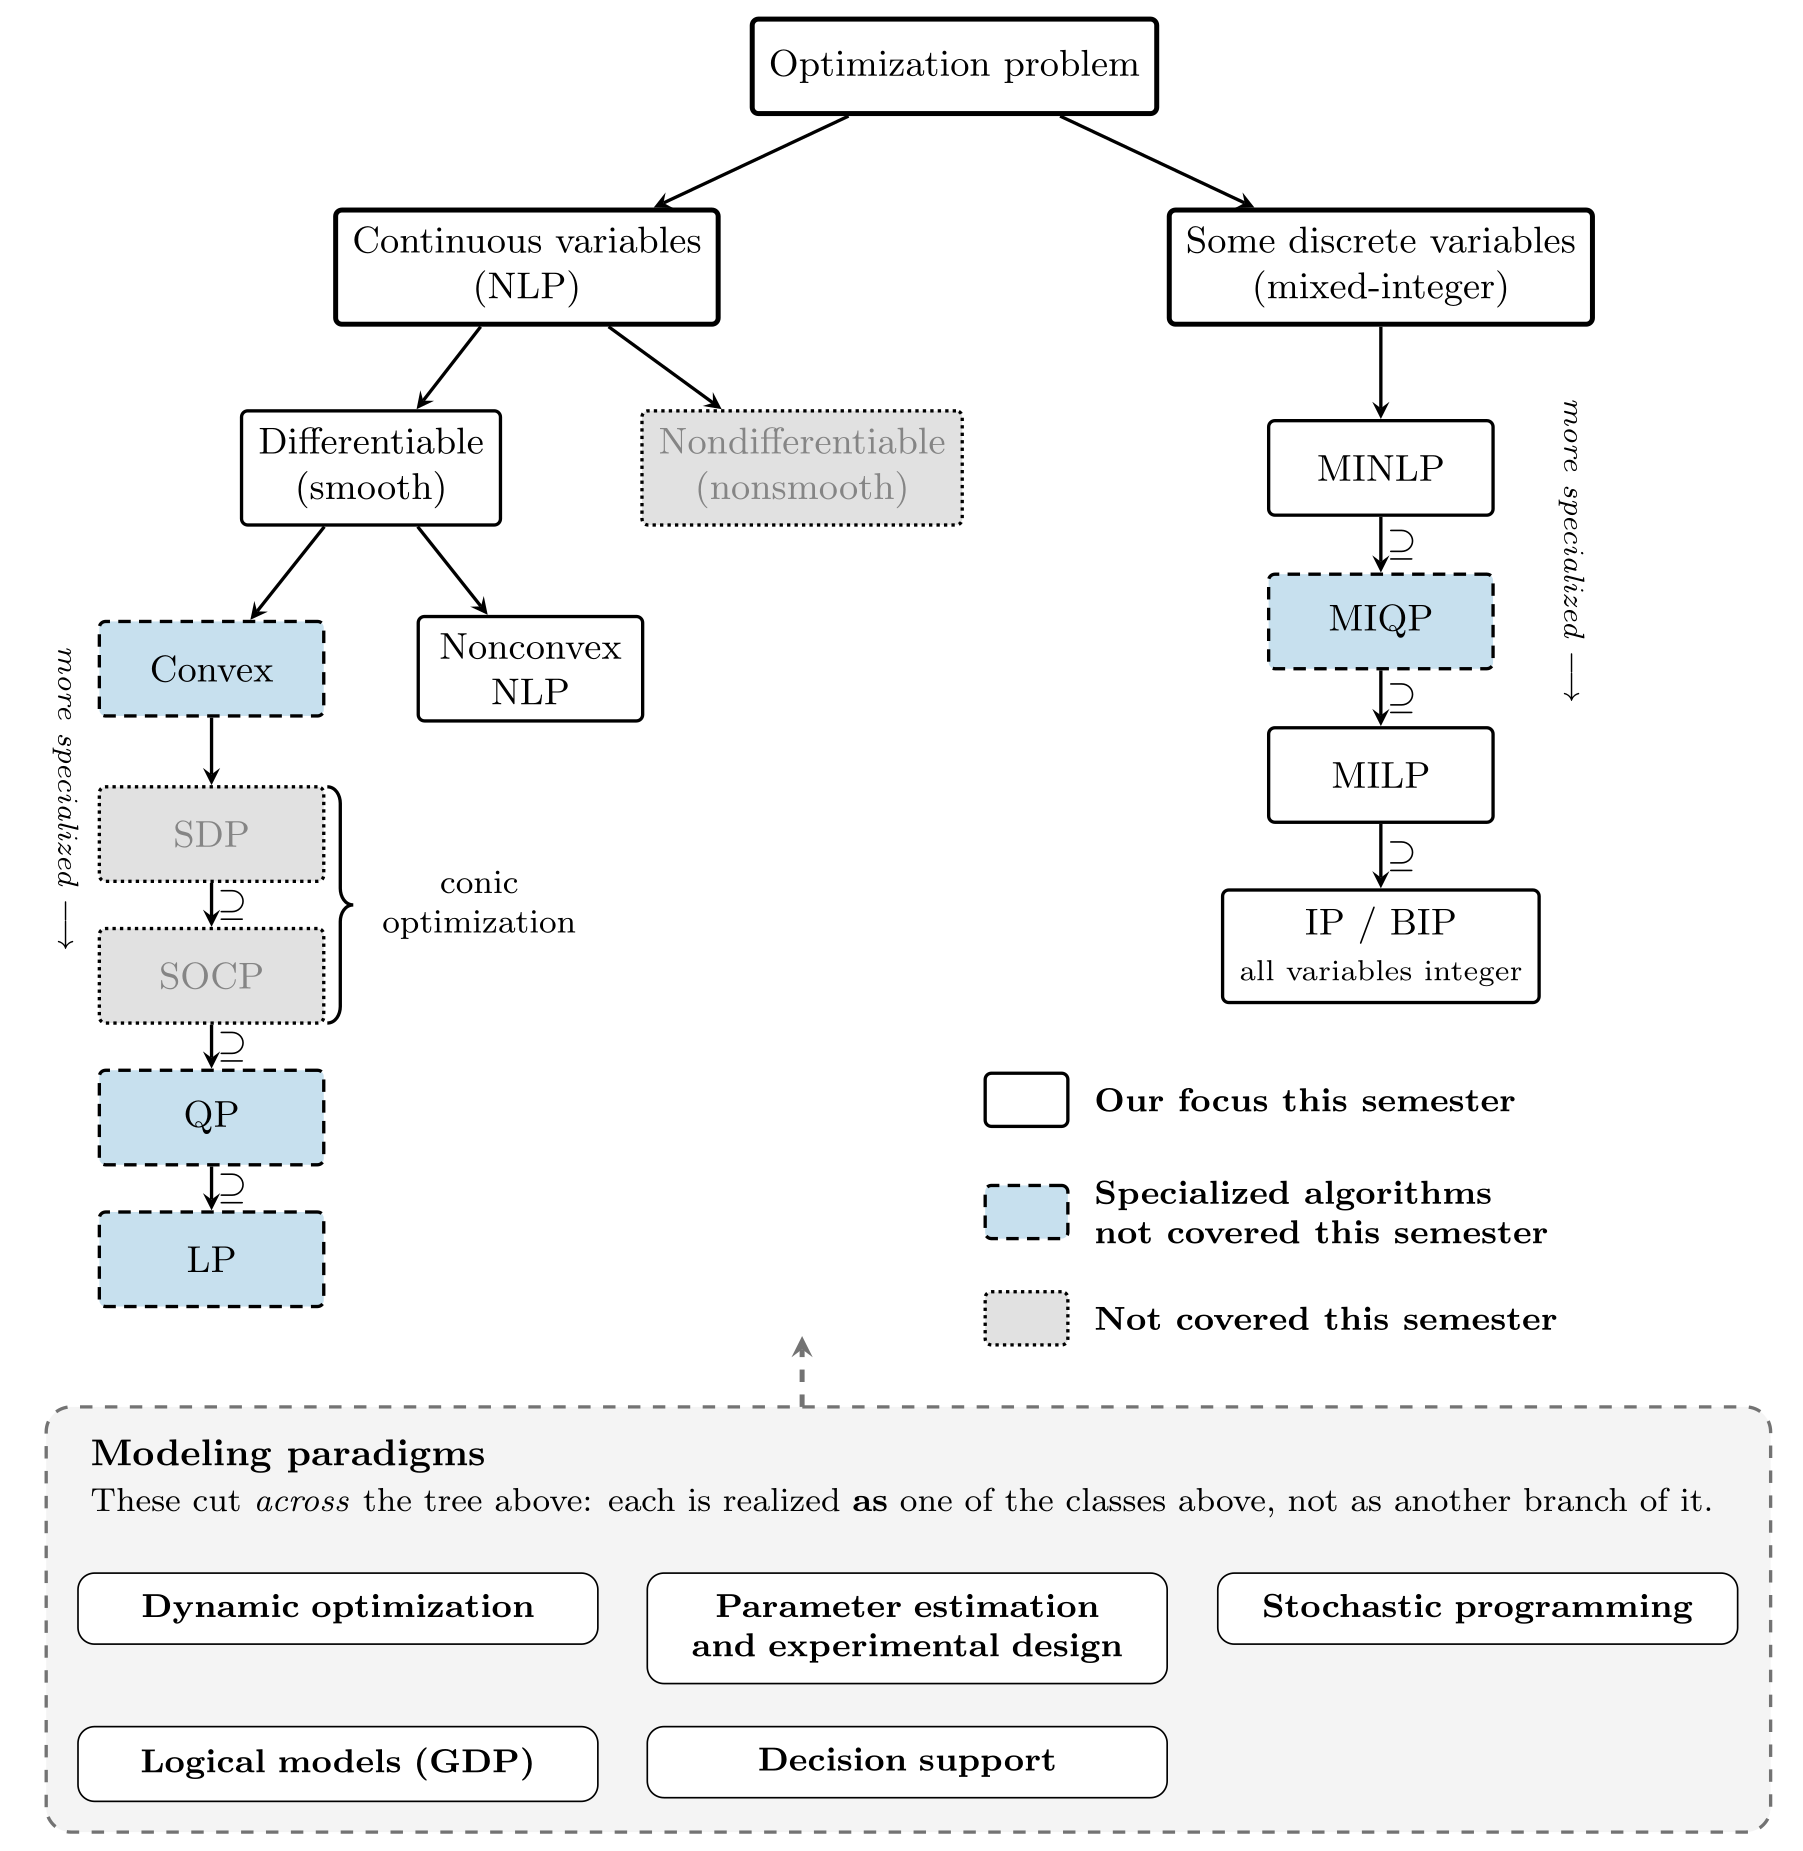
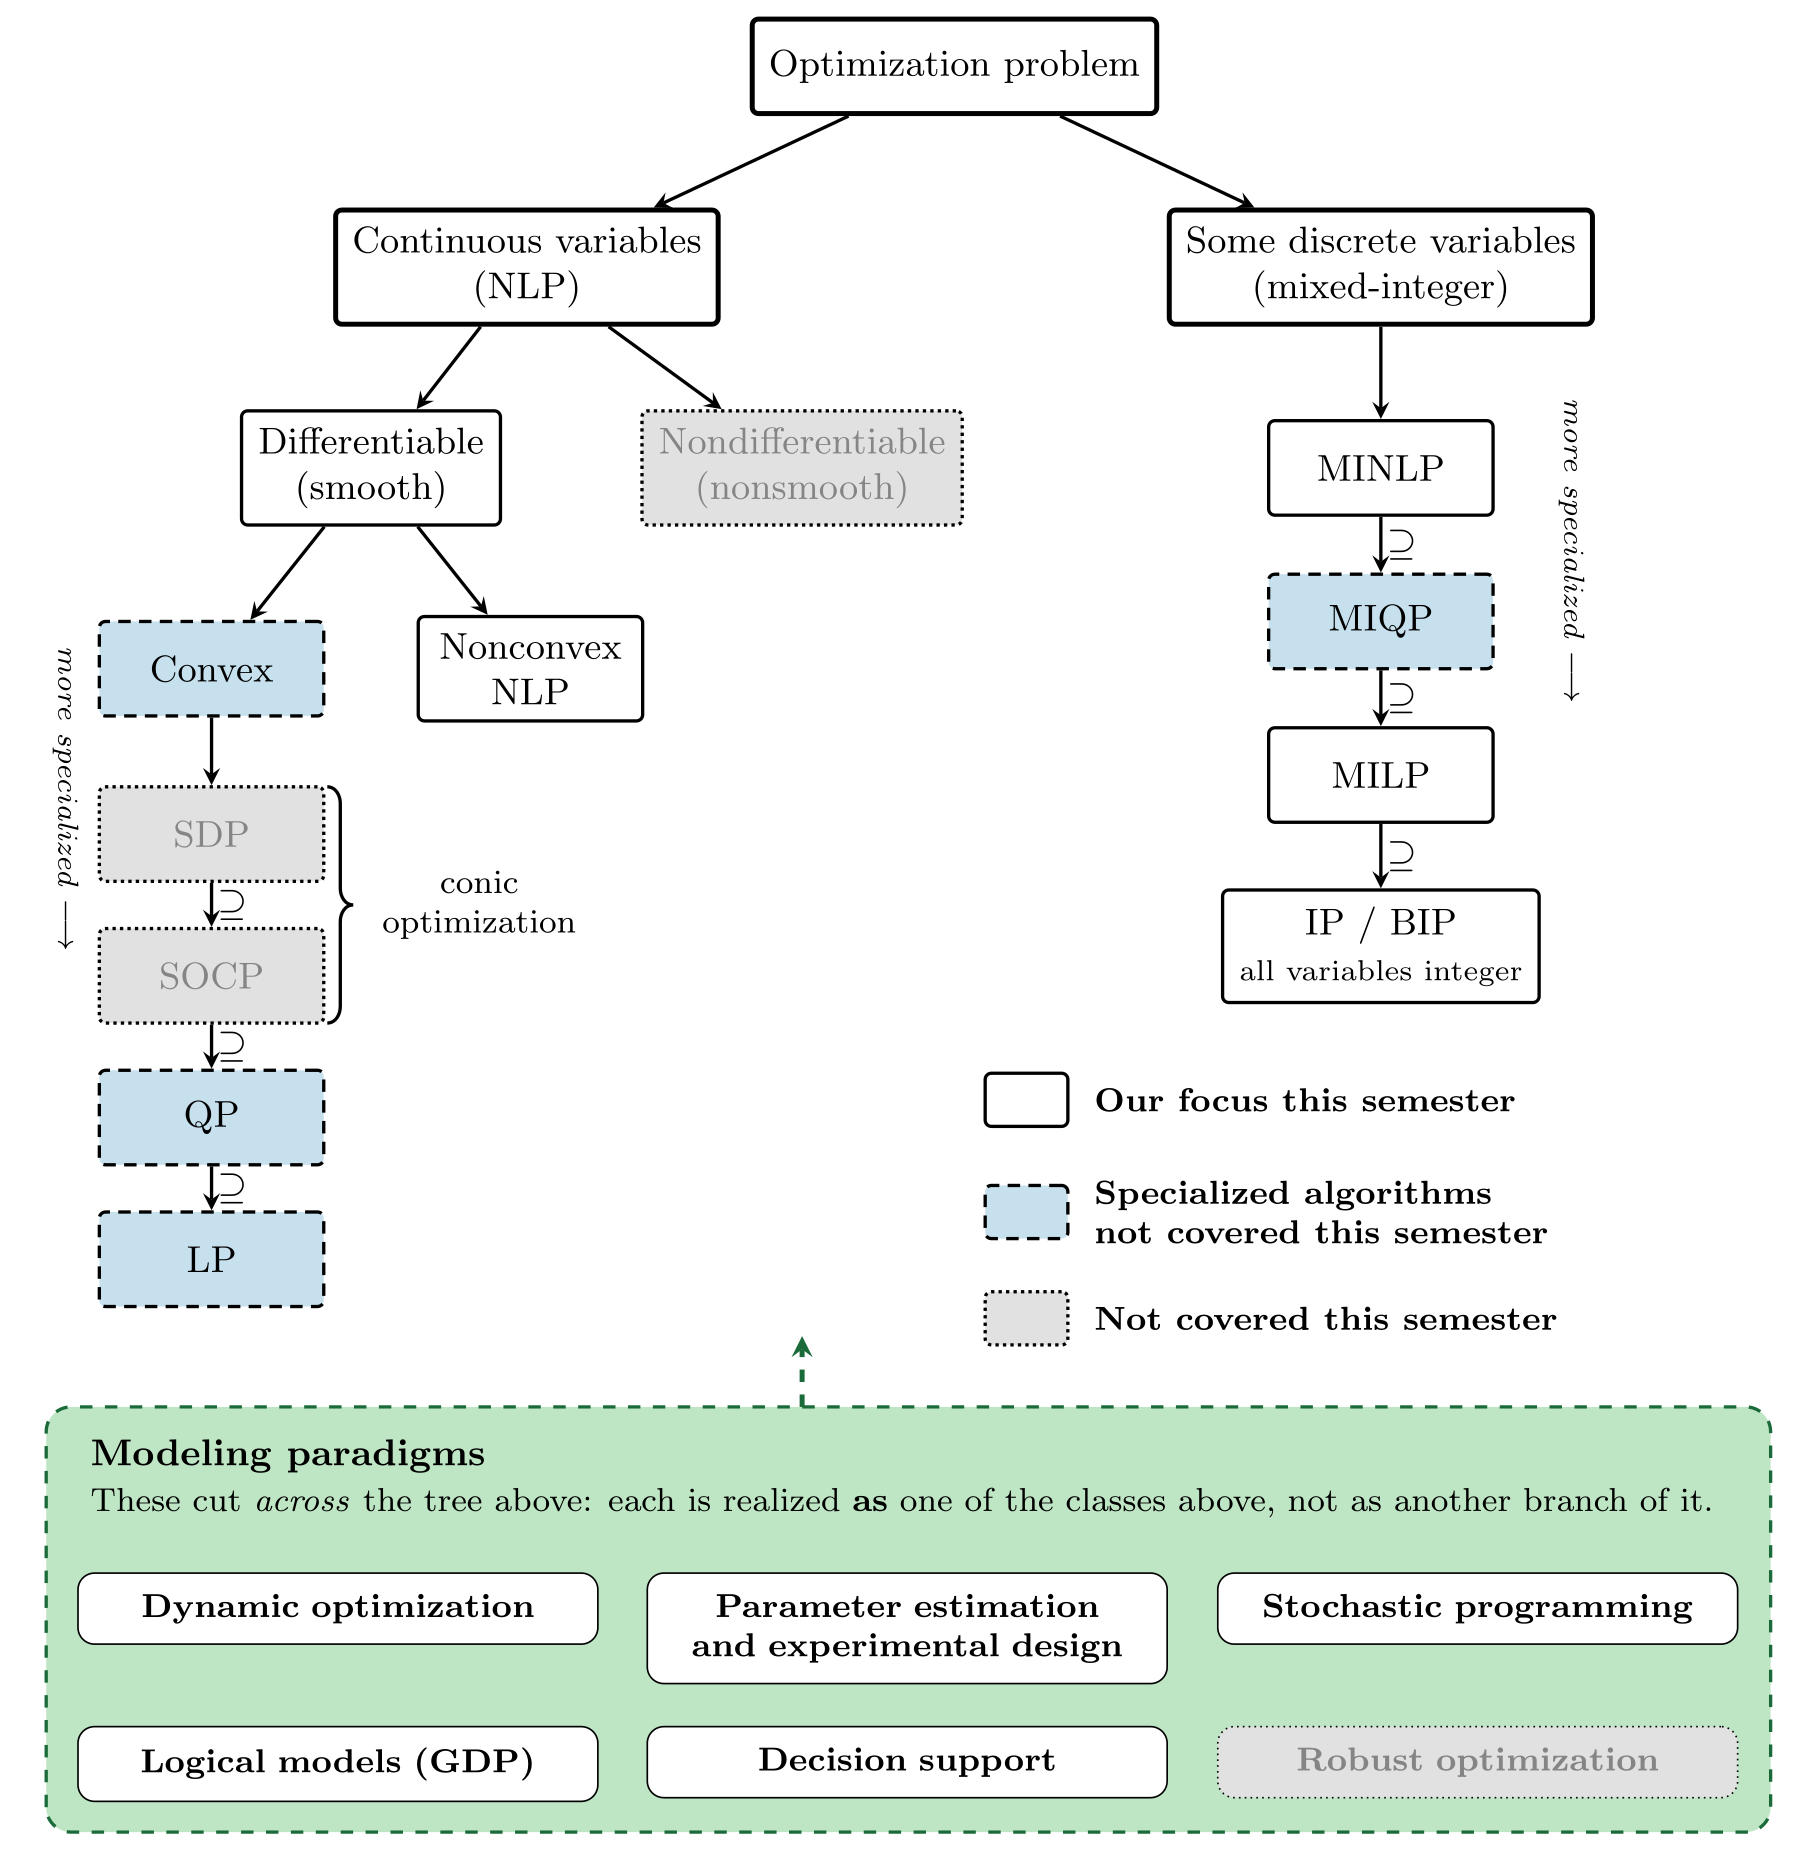
Taxonomy figure: green paradigm band, plus Robust optimization marked not covered
Two additive changes Alex asked for; the tree is untouched.

1. The modeling-paradigms band moves from a dashed grey enclosure on #F4F4F4
   to a dark green outline (#1B6B3A) on a light green ground (#BFE6C4). Only
   colours change -- rounded tags, dashed enclosure, no tree edges and the
   single arrow back at the tree all stay, because they are what make the band
   read as a different KIND of object from the tree. #BFE6C4 has saturation
   0.153, exactly the calibrated blue tint's, so it clears check_greyscale's
   0.12 chromatic floor by the same margin an already-approved colour does.

2. Robust optimization is the sixth paradigm, laid out 3 + 3 on the rows and
   columns the five already used, and marked with the tree's OWN not-covered
   encoding (dotted rule, grey fill, grey text). No second visual language:
   the legend now covers the band for free.

Width is unchanged at 432.651 pt = 1803 px, and that took work. The
definecolor lines sit in the body of a standalone document, so each one's
newline is a space that widens the page; a third colour line silently grew it
to 435.972 pt = 1817 px with pdflatex and make both reporting success. A
trailing %% on one line puts it back exactly. Recorded at the definition --
same failure mode as the usetikzlibrary bug already documented at the brace.

Notebook: alt text now enumerates six paradigms and says robust optimization
is marked not covered; the paradigm table gains a row (box or polyhedral
[…]

Changed region(s): [[0.0, 0.7391, 0.9939, 1.0]]

diff --git a/figures/tikz/optimization-problem-classes.tex b/figures/tikz/optimization-problem-classes.tex
@@ -45,9 +45,12 @@
 % as a different KIND of object -- rounded tags inside a dashed enclosure, no
 % tree edges, one arrow pointing back up at the whole tree rather than at any
 % node in it. If it were drawn as more tree nodes it would teach the opposite
-% of what it is for. The five entries are the course's own Part I list
+% of what it is for. Five of the six entries are the course's own Part I list
 % (see ../../optimization-private/lecture-notes/lectures/introduction.tex,
-% "The semester").
+% "The semester"); ROBUST OPTIMIZATION is the sixth, added 2026-08-25 on Prof.
+% Dowling's instruction ("add 'Robust Optimization' as a modeling paradigm, but
+% mark it as not covered this semester") and marked with the tree's own
+% not-covered treatment -- see the `paruncov' style below.
 %
 % ---------------------------------------------------------------------------
 % GREYSCALE. The colour policy (figures/dowling.mplstyle header, and
@@ -80,7 +83,34 @@
 % Okabe-Ito blue at low saturation. The hue is the colour-vision-safe blue from
 % the house palette; the tint keeps black text on it readable.
 \definecolor{classblue}{HTML}{C7E0EE}
-\definecolor{bandgrey}{HTML}{F4F4F4}
+
+% THE BAND'S OWN COLOUR PAIR. Prof. Dowling, 2026-08-25: "let's make the outline
+% of the modeling paradigms dark green with a light green background." It
+% replaces a dashed grey enclosure on #F4F4F4.
+%
+% ⚠ THERE IS A TINT CEILING AS WELL AS A FLOOR. scripts/check_greyscale.py calls
+% a colour "chromatic" only at saturation (max-min channel) >= 0.12; an earlier
+% round used #D6E7F2 and the checker reported the whole figure as "rendered with
+% no chromatic colour at all", i.e. the colour half of a colour-code was not
+% arriving. #BFE6C4 has saturation 0.153 -- EXACTLY the calibrated blue tint's,
+% so it clears the floor by the same margin a colour already approved here does,
+% while staying light enough for black text.
+%
+% In GREYSCALE dark-green-on-light-green prints much like the grey-on-grey it
+% replaces, and that is fine: the band is told apart from the tree by its SHAPE
+% (rounded tags, dashed enclosure, no tree edges, one arrow), never by hue.
+%
+% 🔴 THE TRAILING % ON THE NEXT LINE IS LOAD-BEARING. DO NOT DELETE IT.
+% These \definecolor lines sit in the BODY of a `standalone' document, so the
+% newline after each one is a SPACE, and every space widens the page. The
+% approved width (432.651 pt = 1803 px) was set with TWO colour lines here;
+% replacing one grey with two greens is a third, and it silently grew the page
+% to 435.972 pt = 1817 px -- pdflatex and make both reported success. The % eats
+% one newline and puts the width back exactly. Same failure mode as the
+% \usetikzlibrary bug documented at the brace: measure with pdfinfo, never
+% assume, because nothing warns you.
+\definecolor{bandgreen}{HTML}{BFE6C4}%
+\definecolor{bandgreendark}{HTML}{1B6B3A}
 
 \begin{tikzpicture}[
   every node/.style = {font=\small},
@@ -104,6 +134,14 @@
                     align=center, text width=4.05cm, inner sep=5pt,
                     font=\footnotesize, hyphens/.code={},
                     execute at begin node={\hyphenpenalty=10000\exhyphenpenalty=10000}},
+  % 🔴 A NOT-COVERED TAG REUSES THE TREE'S ENCODING EXACTLY -- dotted rule, grey
+  % fill, grey text, the same three redundant channels `uncov' uses on SOCP, SDP
+  % and Nondifferentiable. Deliberately NOT a second visual language: the legend
+  % strip already defines this treatment, so it covers the band for free and the
+  % reader learns one convention instead of two. Only the SHAPE keys come from
+  % `tag' (rounded corners, width, anchor), which is what keeps the band reading
+  % as a different kind of object from the tree.
+  paruncov/.style = {tag, densely dotted, fill=black!12, text=black!48},
 ]
 
 % =========================================================================
@@ -281,11 +319,15 @@
 % often miss and is the whole reason the band exists. Exactly ONE line of it
 % stays here, because a band of five bare names claims nothing at all.
 % =========================================================================
-\fill[bandgrey, rounded corners=6pt] (-7.4,-14.95) rectangle (7.2,-11.35);
-\draw[dashed, thick, rounded corners=6pt, black!55]
+% ⚠ COLOURS ONLY. The dashed enclosure, the rounded tags, the absence of tree
+% edges and the single arrow back at the tree are the band's grammar and are
+% unchanged; recolouring must not weaken any of them, which is why the arrow
+% takes the same dark green as the enclosure rather than staying grey.
+\fill[bandgreen, rounded corners=6pt] (-7.4,-14.95) rectangle (7.2,-11.35);
+\draw[dashed, thick, rounded corners=6pt, bandgreendark]
       (-7.4,-14.95) rectangle (7.2,-11.35);
 
-\draw[->, >=stealth, very thick, dashed, black!55] (-1.0,-11.35) -- (-1.0,-10.75);
+\draw[->, >=stealth, very thick, dashed, bandgreendark] (-1.0,-11.35) -- (-1.0,-10.75);
 
 \node[anchor=north west, align=left, font=\small] at (-7.15,-11.50)
       {\textbf{Modeling paradigms}\\
@@ -297,5 +339,9 @@
 \node[tag] (par3) at (4.72,-12.75)  {\textbf{Stochastic programming}};
 \node[tag] (par4) at (-4.93,-14.05) {\textbf{Logical models (GDP)}};
 \node[tag] (par5) at (-0.11,-14.05) {\textbf{Decision support}};
+% Six paradigms sit 3 + 3 on the SAME two rows and the SAME three columns the
+% five used, so the sixth tag costs no width and no height: the band's corners
+% are unchanged and the page is still 1803 px wide.
+\node[paruncov] (par6) at (4.72,-14.05) {\textbf{Robust optimization}};
 
 \end{tikzpicture}
